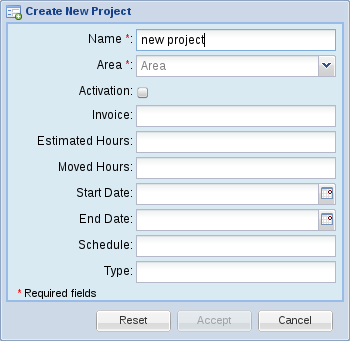
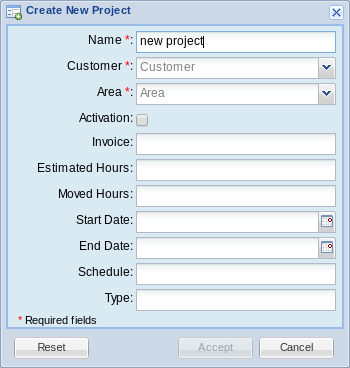
Docs: adapt project management to the changes regarding customers
Only one customer may be assigned to a project now, the UI has changed
to reflect that.

diff --git a/docs/user/projects-management.rst b/docs/user/projects-management.rst
@@ -32,6 +32,9 @@ In the window you must enter the data of the project:
 Name:
   Name of the project.
 
+Customer:
+  Customer the project will be assigned to.
+
 Area:
   Area of the company this project belongs to.
 
@@ -76,31 +79,11 @@ Finally, the last button, *Details*, will open the
 `project details report <reports.rst#project-details>`__ for the selected
 project.
 
-Assigning clients
-=================
-
-To assign clients to the selected project, press the *Assign Client* button
-located below the projects grid (in the bottom-right corner). The following
-subwindow will appear:
-
-.. figure:: i/client-assignment-subwindow.png
-
-To assign a client, you have to drag it from the right list and drop it on the
-left list.
-
-Once you're done, press the *Accept* button to save the assignment or
-*Cancel* to discard it. You can also use the *Reset* button to return the data
-in the window to the original state.
-
-.. TIP:: You can select more than one client to drag'n'drop them at once, using
-         the *Ctrl* or *Shift* keys.
-
 Assigning users
 =================
 
 To assign users to the selected project, press the *Assign People* button
-located below the projects grid (in the bottom-right corner). The following
-subwindow will appear:
+located above the projects grid. The following subwindow will appear:
 
 .. figure:: i/user-assignment-subwindow.png
 

diff --git a/docs/user/index.rst b/docs/user/index.rst
@@ -30,7 +30,6 @@ concepts to use PhpReport both for worker and manager profiles.
 #. `Projects management <projects-management.rst>`__
 
    * `Create, edit and delete projects <projects-management.rst#create-edit-and-delete-projects>`__
-   * `Assigning clients <projects-management.rst#assigning-clients>`__
    * `Assigning users <projects-management.rst#assigning-users>`__
 
 #. `Users management <users-management.rst>`__
